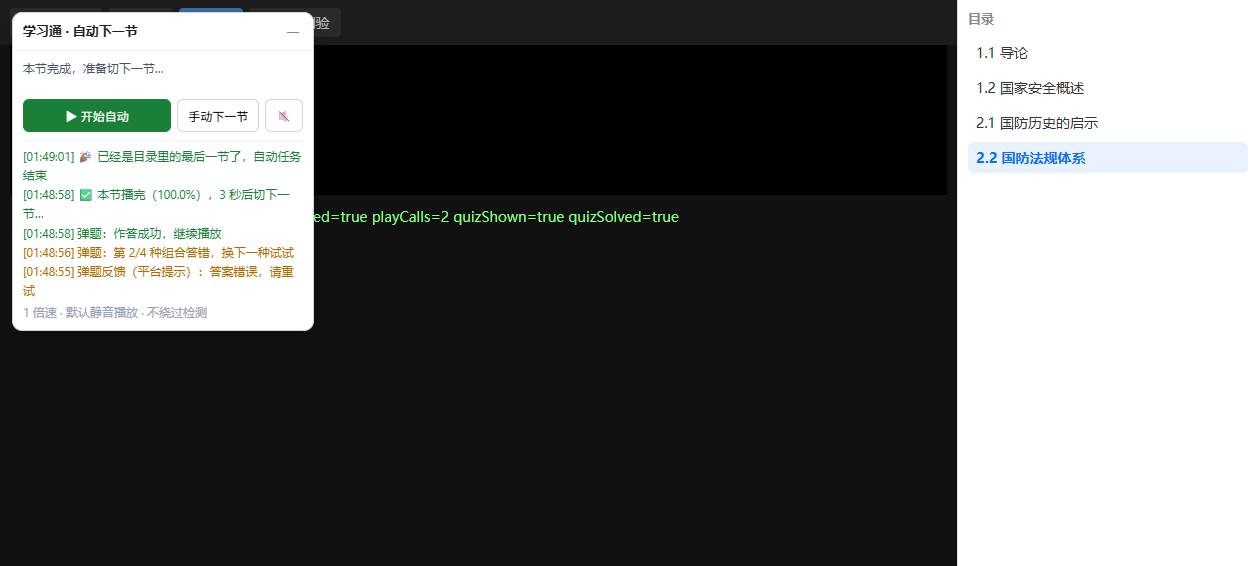
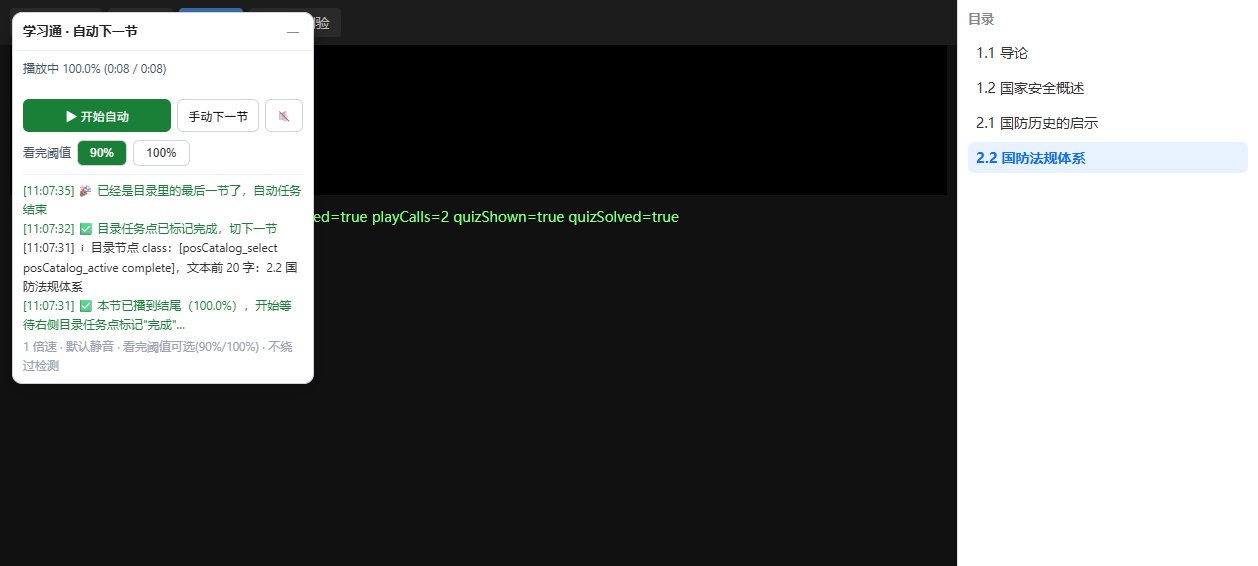
feat: 切下一节前先检测右侧目录任务点是否完成(含 mock 自测) (v1.3.8)

Changed region(s): [[0.0, 0.2403, 0.248, 0.6908], [0.0, 0.0901, 0.124, 0.1502]]

diff --git a/chaoxing-auto-next.user.js b/chaoxing-auto-next.user.js
@@ -1,7 +1,7 @@
 // ==UserScript==
 // @name         超星学习通 · 自动播放 + 播完自动下一节
 // @namespace    workbuddy.chaoxing.autonext
-// @version      1.3.7
+// @version      1.3.8
 // @description  自动播放当前章节的视频；播放完成后自动点击右侧目录的下一节并继续播放。不加速、不绕过平台的防挂机检测（视频内弹出的单选/多选题会自动尝试作答，多选暴力枚举组合）。
 // @author       WorkBuddy
 // @match        *://*.chaoxing.com/mycourse/studentstudy*
@@ -15,7 +15,8 @@
  * ---------------------------------------------------------------
  * 本脚本只做两件"免手动操作"的事：
  *   1) 进入某节后，自动点一下播放键（你本来也要点的）；
- *   2) 当前视频播到"进度 ≥ 设定阈值（默认 90%，面板可切 100%）或播放结束 ended"后，自动点右侧目录的下一节。
+ *   2) 当前视频播到"进度 ≥ 设定阈值（默认 90%，面板可切 100%）或播放结束 ended"后，不直接跳；
+ *      而是轮询右侧目录，等本节的"任务点"被平台标记为「完成」才自动点下一节（最多等 20 秒，超时兜底切走，避免卡死）。
  * 视频仍然按 1 倍速、在前台、真实播放完整时长，不改学习记录。
  * 默认【静音】自动播放（浏览器普遍拦截"带声音的自动播放"，静音才稳；面板右侧 🔇/🔊 可一键切回有声）。
  *
@@ -54,8 +55,9 @@
    * ================================================================ */
   const CFG = {
     POLL_MS: 1500,        // 轮询间隔（毫秒）
-    FINISH_RATIO: 0.90,   // 看完阈值（面板可切 90%/100%）：进度 ≥ 此值（或视频 ended）即判定播完并切下一节。100% 模式需视频真正播到结尾，满足"要求全部看完"
-    NEXT_WAIT_MS: 6000,   // 判定播完后等多久再切下一节（给平台上报 100% 进度留时间，避免任务点没记上就跳走了）
+    FINISH_RATIO: 0.90,   // 看完阈值（面板可切 90%/100%）：进度 ≥ 此值（或视频 ended）才开始等待"任务点完成"。100% 模式需视频真正播到结尾，满足"要求全部看完"
+    TASK_DONE_MAXWAIT_MS: 20000, // 视频播到结尾后，最多等多久等右侧目录任务点标记"完成"再跳；超时仍没确认就按安全兜底切走（避免卡死）
+    SWITCH_DELAY_MS: 2500, // 确认任务点完成后，再等这么久让平台落库，然后切下一节
     AUTOSTART: false,     // 打开页面是否自动开始
     MUTED: true,          // 默认静音播放（浏览器普遍拦截"带声音的自动播放"，静音才稳；面板可一键切回有声）
     MULTI_CHOICE: true,   // 是否自动答多选题（暴力枚举组合；关闭则多选题停下等手动）
@@ -69,6 +71,8 @@
    * ================================================================ */
   let running = CFG.AUTOSTART;   // 总开关
   let switching = false;         // 正在切章节，避免重复触发
+  let completing = false;        // 已播到结尾、正在等右侧目录任务点标记"完成"
+  let completingSince = 0;       // 进入 completing 的时间
   let lastKey = '';              // 当前已接管的视频标识
   let lastTabTryAt = 0;          // 上次尝试点「视频」标签的时间
   let tabMissLogged = false;     // 「本节没有视频标签」只提醒一次
@@ -544,6 +548,60 @@
     return true;
   }
 
+  /* 收集一个节点自身 + 后代元素的所有 class（用于判断任务点完成态） */
+  function nodeClasses(node) {
+    if (!node) return '';
+    let s = node.className || '';
+    let els = [];
+    try { els = node.querySelectorAll('*'); } catch (e) {}
+    for (let i = 0; i < els.length; i++) {
+      if (els[i].className && typeof els[i].className === 'string') s += ' ' + els[i].className;
+    }
+    return s;
+  }
+
+  /* 判断"当前正在播放的这一节"在右侧目录里的任务点是否已标记为完成。
+     超星完成任务点后，目录节点通常会：① 节点或其图标加上 completed/finish/over 之类 class；② 出现 ✓/✔ 对勾。
+     用多模式兜底检测；若你的超星版本 class 不同（脚本日志里会打印当前节点 class），把那行发我即可校准。 */
+  function isActiveTaskDone() {
+    const nodes = catalogNodes();
+    const idx = activeIndex(nodes);
+    if (idx < 0) return false;
+    const node = nodes[idx];
+    const cls = nodeClasses(node);
+    if (/(?:^|\s)(?:complete|completed|finish|finished|over|done|learned|studied|gray|finishtask|taskdone|pass|answered)(?:$|\s)/i.test(cls)) return true;
+    if (/[✓✔√]/.test(node.textContent || '')) return true;
+    return false;
+  }
+
+  /* 执行"切下一节"：先等 SWITCH_DELAY_MS 让平台落库，再 goNext */
+  function doSwitch() {
+    switching = true;
+    completing = false;
+    setTimeout(function () {
+      const ok = goNext();
+      lastKey = '';
+      tabMissLogged = false;
+      lastTabTryAt = 0;
+      setTimeout(function () { switching = false; }, ok ? 4000 : 1200);
+    }, CFG.SWITCH_DELAY_MS);
+  }
+
+  /* 已播到结尾：轮询右侧目录任务点是否"完成"，完成才切；超时兜底切走（不卡死） */
+  function handleCompleting() {
+    if (isActiveTaskDone()) {
+      log('✅ 目录任务点已标记完成，切下一节', 'ok');
+      doSwitch();
+      return;
+    }
+    if (Date.now() - completingSince > CFG.TASK_DONE_MAXWAIT_MS) {
+      log('⚠ 等 ' + (CFG.TASK_DONE_MAXWAIT_MS / 1000) + ' 秒仍未能从目录确认任务点完成（可能选择器不匹配你的超星版本），按安全兜底切下一节', 'warn');
+      doSwitch();
+      return;
+    }
+    setStatus('已播到结尾，等待目录任务点标记"完成"后切下一节…');
+  }
+
   /* ================================================================
    * 6. 主循环
    * ================================================================ */
@@ -559,6 +617,8 @@
       topDoc().documentElement.appendChild(panel);
     }
     if (!running || switching) return;
+    /* 已播到结尾、正在等目录任务点标记"完成"：交给 handleCompleting 轮询，不再走下面的播放入口 */
+    if (completing) { handleCompleting(); return; }
 
     /* 视频内弹题优先处理：单选/多选自动作答（多选枚举组合）；无弹题则往下走 */
     if (findQuiz()) {
@@ -590,6 +650,7 @@
     /* 发现新视频：接管并播放 */
     if (key !== lastKey) {
       lastKey = key;
+      completing = false;
       tabMissLogged = false;
       setStatus('已接管新视频，准备播放…');
       log('🎬 检测到视频：' + shortName(key) + '（时长 ' + fmtTime(v.duration) + '）');
@@ -614,20 +675,24 @@
       setStatus('播放中 ' + (ratio * 100).toFixed(1) + '%  (' +
                 fmtTime(v.currentTime) + ' / ' + fmtTime(v.duration) + ')');
 
-      /* 完成判定：进度 ≥ CFG.FINISH_RATIO（面板可选 90% 或 100%）或视频 ended 即切下一节。
-         100% 模式需视频真正播到结尾（满足"要求全部看完"）；90% 模式会提前跳，部分视频任务点可能仍判未完成 */
+      /* 完成判定：进度 ≥ CFG.FINISH_RATIO（面板可选 90% 或 100%）或视频 ended 后，
+         不再立刻跳——进入"等目录任务点标记完成"状态，由 handleCompleting 轮询确认完成才切。
+         100% 模式需视频真正播到结尾（满足"要求全部看完"）；90% 模式会较早进入等待，但最终仍以平台"任务点完成"为准 */
       if (v.ended || ratio >= CFG.FINISH_RATIO) {
-        switching = true;
-        const pct = (ratio * 100).toFixed(1);
-        log('✅ 本节已播到结尾（' + pct + '%），等待平台记录 100% 后切下一节…', 'ok');
-        setStatus('本节完成，准备切下一节…');
-        setTimeout(function () {
-          const ok = goNext();
-          lastKey = '';
-          tabMissLogged = false;
-          lastTabTryAt = 0;
-          setTimeout(function () { switching = false; }, ok ? 4000 : 1200);
-        }, CFG.NEXT_WAIT_MS);
+        if (!completing) {
+          completing = true;
+          completingSince = Date.now();
+          const pct = (ratio * 100).toFixed(1);
+          log('✅ 本节已播到结尾（' + pct + '%），开始等待右侧目录任务点标记"完成"…', 'ok');
+          /* 打印当前目录节点的 class，便于校准"完成态"选择器（若检测不生效，把这两行发我） */
+          const ns = catalogNodes();
+          const ai = activeIndex(ns);
+          if (ai >= 0) {
+            log('ℹ 目录节点 class：[' + (ns[ai].className || '') + ']，文本前 20 字：' +
+                (ns[ai].textContent || '').replace(/\s+/g, ' ').trim().slice(0, 20), 'info');
+          }
+        }
+        return; /* 交给 handleCompleting 轮询 */
       }
     }
   }
@@ -743,6 +808,7 @@
       if (running) {
         lastKey = '';
         switching = false;
+        completing = false;
         tabMissLogged = false;
         lastTabTryAt = 0;
         statusText = '已启动，正在寻找视频…';

diff --git a/mock/layer2.html b/mock/layer2.html
@@ -138,6 +138,14 @@
   };
 
   setInterval(function () {
+    /* 视频真正结束后，通知顶层把当前目录节点标记为「已完成」（模拟超星任务点完成） */
+    if (v.ended && !window.__markedComplete) {
+      window.__markedComplete = true;
+      try {
+        var top = window.parent && window.parent.parent;
+        if (top && top.markActiveComplete) top.markActiveComplete();
+      } catch (e) {}
+    }
     maybeShowQuiz();
     document.getElementById('hud').textContent =
       'chapter=' + n + '  tab=' + window.__tab + '  t=' + v.currentTime.toFixed(1) + '/' + DUR +

diff --git a/mock/index.html b/mock/index.html
@@ -60,6 +60,13 @@
     document.getElementById('iframe').src = 'layer1.html?n=' + (i + 1);
   }
 
+  /* 供 layer2 调用：把"当前激活的目录节点"标记为已完成（模拟超星任务点完成） */
+  window.markActiveComplete = function () {
+    var act = document.querySelector('.posCatalog_select.posCatalog_active') ||
+              document.querySelector('.posCatalog_active');
+    if (act) act.classList.add('complete');
+  };
+
   activate(0);
 </script>
 </body>

diff --git a/安装与使用说明.md b/安装与使用说明.md
@@ -50,7 +50,7 @@
 | 功能              | 行为                                 |
 | --------------- | ---------------------------------- |
 | ✅ 自动播放          | 进入某节后自动点击播放键（你本来也要点的）              |
-| ✅ 播完自动下一节       | 进度到设定阈值（默认 90%，面板可切 100%）或视频 `ended` 后，自动点右侧目录的下一节。100% 模式满足"要求全部看完"；90% 模式会提前跳，部分视频任务点可能仍判未完成 |
+| ✅ 播完自动下一节       | 视频播到设定阈值（默认 90%，面板可切 100%）或 `ended` 后，**不直接跳**；而是轮询右侧目录，等本节"任务点"被平台标记为「完成」才切（最多等 20 秒，超时兜底切走，避免卡死）。100% 模式满足"要求全部看完" |
 | ✅ 弹题自动作答（单选+多选） | 视频中途弹出**单选/多选题**时自动作答：单选逐个试选项、多选暴力枚举所有组合逐个试，答错或提交后 2.7 秒无反馈就换下一组重提交，直到答对（所有组合都试完仍无确定反馈才停下让你手动） |
 | ✅ 默认静音自动播放      | 浏览器普遍拦截"带声音的自动播放"，所以默认**静音**播放最稳；面板右侧 🔇/🔊 可一键切回有声 |
 | ✅ 遇到非视频节点       | 当前是音频/文档/测验且没找到视频时，会停下提醒你，不会替你跳过   |
@@ -67,6 +67,7 @@
 - **不要一次刷太猛**。连着刷几十节容易触发平台风控。建议分批、间隔着来。
 - **遇到章节测验/作业，脚本会停下来**等你自己做；做完再点"手动下一节"或等它继续。
 - 超星偶尔改版（前端结构变化），目录/视频选择器可能失效。若面板报"没找到右侧课程目录"，多半是改版了，告诉我，我再更新选择器。
+- **关于"检测任务点完成再跳"**：脚本现在是等右侧目录里本节的"任务点"被平台标记为完成后才切下一节（不再只靠猜百分比）。判定的"完成态"用的是超星目录节点上的一组 class（complete/finish/over 等）和对勾字符兜底。若你的超星版本 class 不同，日志会出现「等 20 秒仍未能从目录确认任务点完成…按安全兜底切下一节」——把那附近日志里的「目录节点 class：[…]」那行发我，我据此校准选择器即可，无需你改代码。
 
 ---
 
